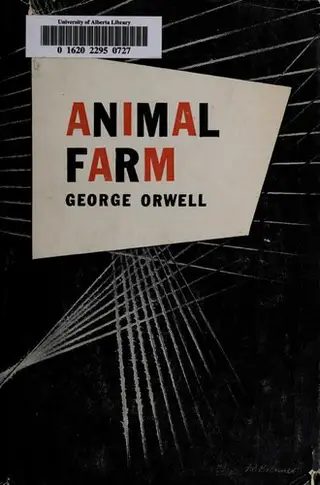
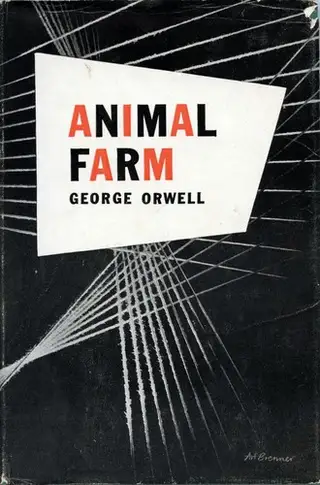
Widen the reading column, introduce the first pages, new Animal Farm cover
The reader's column grows from 39rem to 54rem on wide screens. A first visit
to /first-pages now opens on what the page is for and how to use it; "How
this works" brings it back. Animal Farm takes a cover without a library label.

diff --git a/src/pages/FirstPages.tsx b/src/pages/FirstPages.tsx
@@ -20,6 +20,20 @@ const TEXT = {
   another: { en: 'Another voice', fr: 'Une autre voix' },
   readOn: { en: 'Read on', fr: 'Lire la suite' },
   about: { en: 'About this book', fr: 'À propos du livre' },
+  introTitle: { en: 'Choose a book by its voice', fr: 'Choisir un livre à sa voix' },
+  introLead: {
+    en: 'A cover and a famous name decide for you before you have read a word. Here you meet a book the other way round: by its first lines alone, drawn at random.',
+    fr: 'Une couverture et un nom célèbre décident à votre place avant que vous ayez lu un mot. Ici, on rencontre un livre à l’envers : par ses seules premières lignes, tirées au hasard.',
+  },
+  step1: { en: 'Read the first lines. Nothing tells you what the book is.', fr: 'Lisez les premières lignes. Rien ne dit de quel livre il s’agit.' },
+  step2: { en: 'If the voice does not hold you, ask for another.', fr: 'Si la voix ne vous retient pas, demandez-en une autre.' },
+  step3: {
+    en: 'If it does, turn the page over to see the book, and read on from the very next line.',
+    fr: 'Si elle vous retient, retournez la page pour découvrir le livre, et lisez la suite dès la ligne suivante.',
+  },
+  introNote: { en: '{n} books to meet, all free to read here.', fr: '{n} livres à rencontrer, tous en lecture libre ici.' },
+  begin: { en: 'Show me a first page', fr: 'Montrez-moi une première page' },
+  how: { en: 'How this works', fr: 'Comment ça marche' },
   hint: {
     en: 'No cover, no name. If the voice holds you, turn the page over.',
     fr: 'Ni couverture, ni nom. Si la voix vous retient, retournez la page.',
@@ -27,6 +41,7 @@ const TEXT = {
 } satisfies Record<string, L>;
 
 const BY_ID = new Map(BOOKS.map((book) => [book.id, book]));
+const SEEN_KEY = 'incipit:first-pages-seen';
 
 function shuffled<T>(list: T[]): T[] {
   const copy = [...list];
@@ -43,6 +58,22 @@ export default function FirstPages() {
   const order = useMemo(() => shuffled(Object.keys(OPENINGS).filter((id) => BY_ID.has(id) && OPENINGS[id].lines.length)), []);
   const [at, setAt] = useState(0);
   const [turned, setTurned] = useState(false);
+  // A first visit begins with what the page is for; after that it goes straight to a book.
+  const [intro, setIntro] = useState(() => {
+    try {
+      return !localStorage.getItem(SEEN_KEY);
+    } catch {
+      return true;
+    }
+  });
+  const begin = () => {
+    setIntro(false);
+    try {
+      localStorage.setItem(SEEN_KEY, '1');
+    } catch {
+      // The introduction then shows again next time.
+    }
+  };
 
   const id = order[at % order.length];
   const book = BY_ID.get(id)!;
@@ -62,14 +93,37 @@ export default function FirstPages() {
 
   useEffect(() => {
     const onKey = (event: KeyboardEvent) => {
+      if (intro) return;
       if (event.key === 'ArrowRight') another();
       if (event.key === 'Enter' && !(event.target instanceof HTMLButtonElement || event.target instanceof HTMLAnchorElement)) setTurned(true);
     };
     window.addEventListener('keydown', onKey);
     return () => window.removeEventListener('keydown', onKey);
-  }, [another]);
+  }, [another, intro]);
 
   const year = book.year < 0 ? `${-book.year} BC` : String(book.year);
+
+  if (intro) {
+    return (
+      <div className="first">
+        <PageHeader here="first-pages" />
+        <main className="first-stage first-intro">
+          <p className="page-eyebrow">{tl(TEXT.eyebrow)}</p>
+          <h1>{tl(TEXT.introTitle)}</h1>
+          <p className="first-intro-lead">{tl(TEXT.introLead)}</p>
+          <ol>
+            <li>{tl(TEXT.step1)}</li>
+            <li>{tl(TEXT.step2)}</li>
+            <li>{tl(TEXT.step3)}</li>
+          </ol>
+          <button type="button" className="button button-large" onClick={begin} autoFocus>
+            {tl(TEXT.begin)}
+          </button>
+          <p className="first-hint">{tl(TEXT.introNote).replace('{n}', String(order.length))}</p>
+        </main>
+      </div>
+    );
+  }
 
   return (
     <div className="first">
@@ -118,6 +172,9 @@ export default function FirstPages() {
             {tl(TEXT.another)} →
           </button>
         </div>
+        <button type="button" className="text-button first-how" onClick={() => setIntro(true)}>
+          {tl(TEXT.how)}
+        </button>
       </main>
     </div>
   );

diff --git a/src/pages/first-pages.css b/src/pages/first-pages.css
@@ -137,3 +137,59 @@
     height: 144px;
   }
 }
+
+/* What the page is for, shown on a first visit. */
+.first-intro {
+  align-items: flex-start;
+  gap: 1.5rem;
+  max-width: 38rem;
+  animation: first-in 1.1s var(--ease-out) both;
+}
+
+.first-intro h1 {
+  margin: 0;
+  font-family: var(--font-display);
+  font-weight: var(--display-weight);
+  font-size: clamp(2.5rem, 5vw, 4rem);
+  line-height: 1;
+  letter-spacing: -0.015em;
+  text-wrap: balance;
+}
+
+.first-intro-lead {
+  margin: 0;
+  font-size: 1.0625rem;
+  line-height: 1.55;
+}
+
+.first-intro ol {
+  display: grid;
+  gap: 0.875rem;
+  width: 100%;
+  margin: 0.5rem 0 1rem;
+  padding: 0;
+  list-style: none;
+  counter-reset: step;
+}
+
+.first-intro li {
+  display: grid;
+  grid-template-columns: 2.25rem minmax(0, 1fr);
+  align-items: baseline;
+  padding-top: 0.875rem;
+  border-top: 1px solid var(--faint);
+  counter-increment: step;
+}
+
+.first-intro li::before {
+  content: counter(step);
+  font-family: var(--font-display);
+  font-size: 1.5rem;
+  line-height: 1;
+  color: var(--accent);
+}
+
+.first-how {
+  color: var(--muted);
+  font-size: 0.8125rem;
+}

diff --git a/src/data/books.ts b/src/data/books.ts
@@ -6333,7 +6333,7 @@ export const BOOKS: Book[] = [
     mood: { tone: 85, voice: 50, intensity: 60, pace: 70, strange: 55 },
     difficulty: 2,
     rating: { value: 4.17, count: 596 },
-    cover: 11261770,
+    cover: 8600818,
     olKey: '/works/OL1168007W',
     borrow: 'animalfarmfairys0000geor',
     description: {

diff --git a/src/reader/reader.css b/src/reader/reader.css
@@ -74,7 +74,7 @@
 }
 
 .reader-page {
-  max-width: 39rem;
+  max-width: min(54rem, 100%);
   margin: 0 auto;
   padding: calc(var(--header-h) + 3rem) var(--gutter) 6rem;
 }
